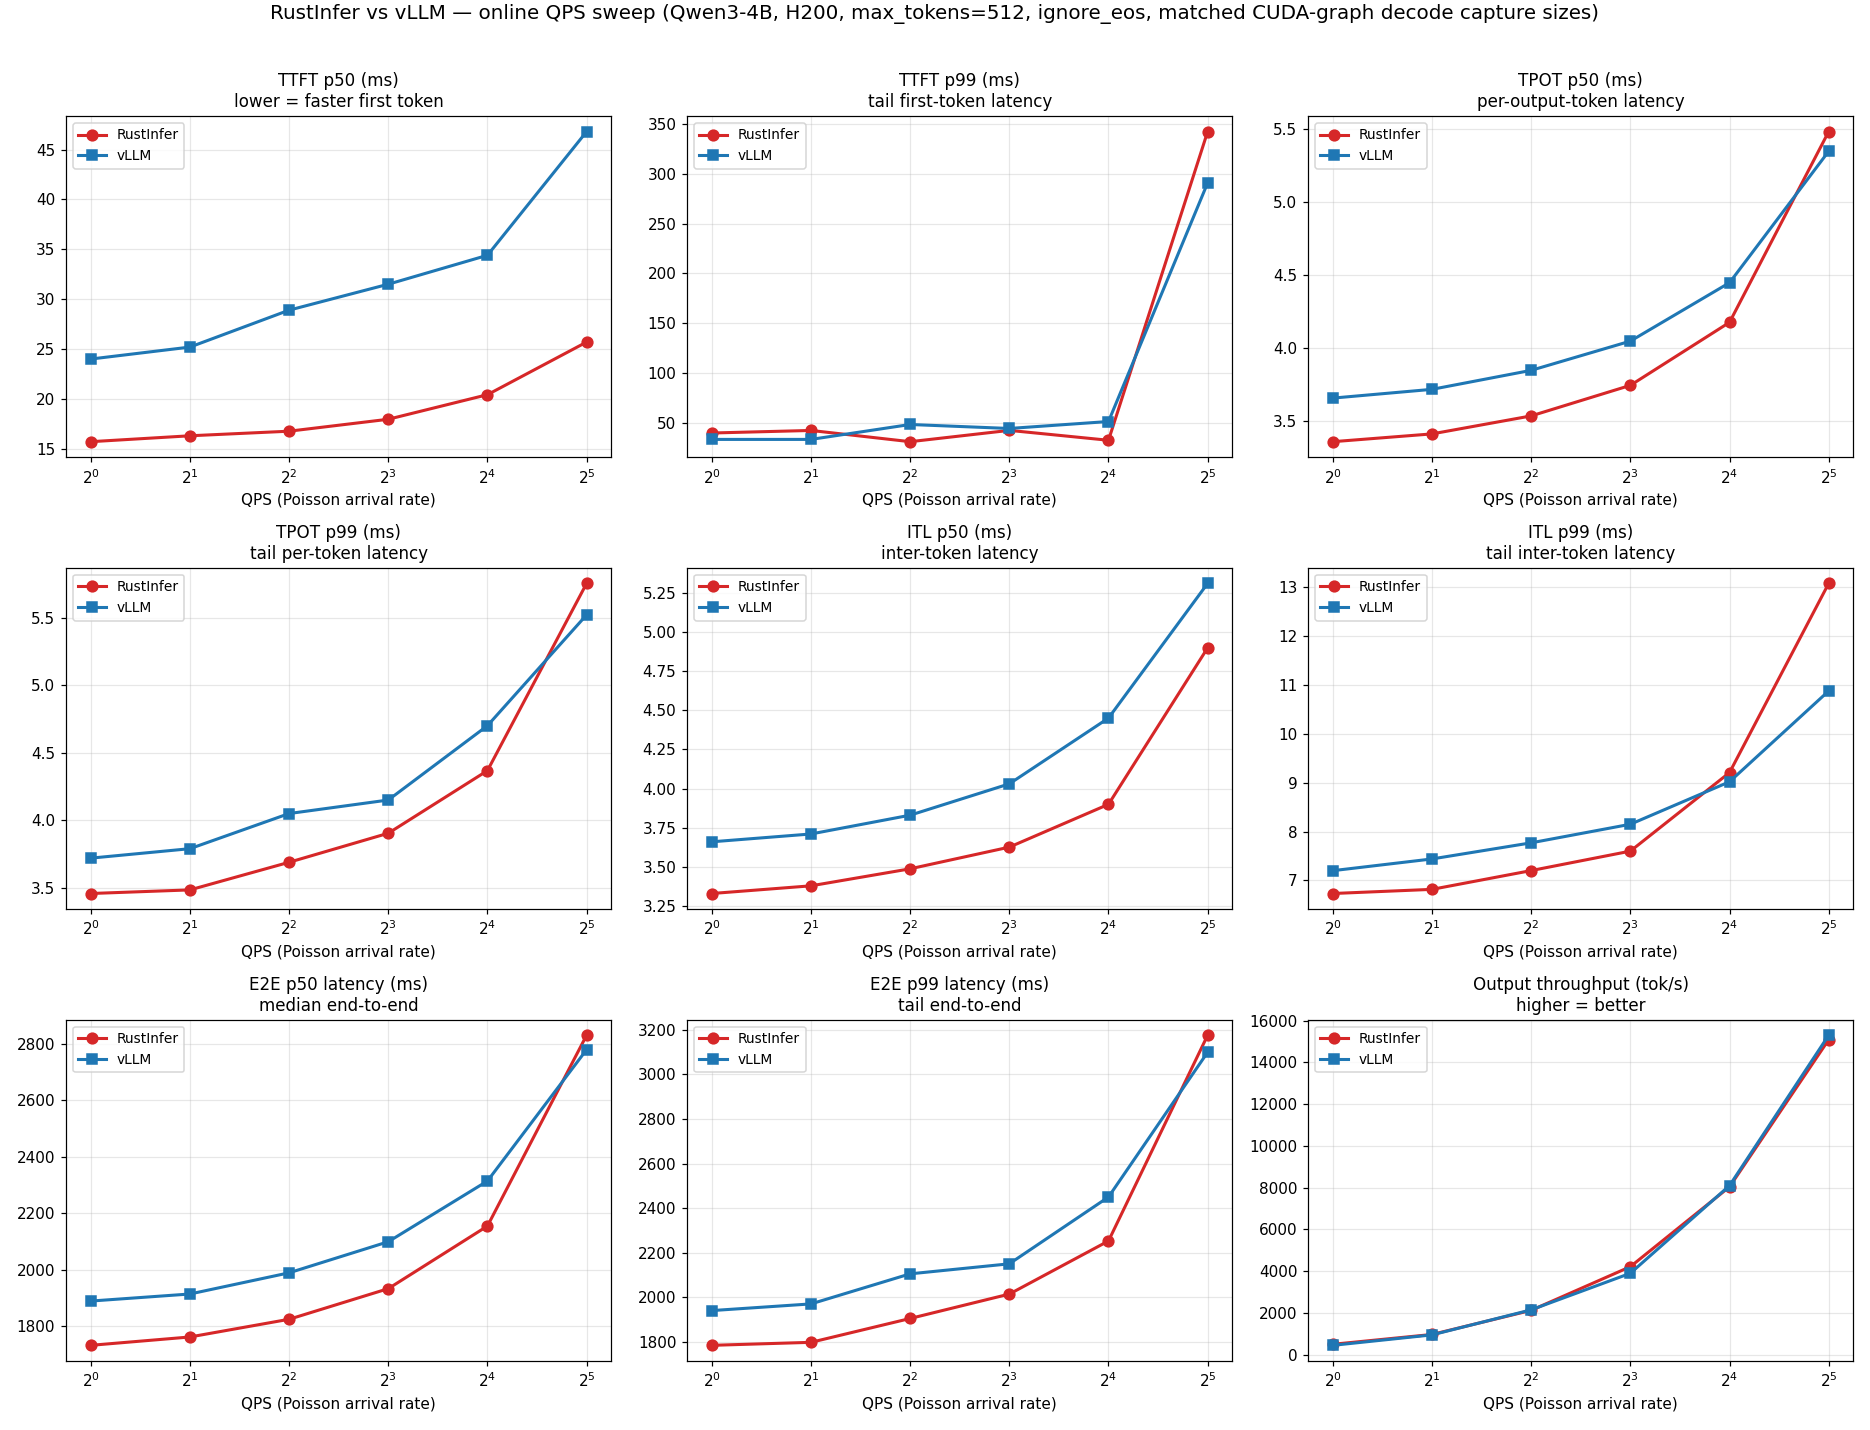
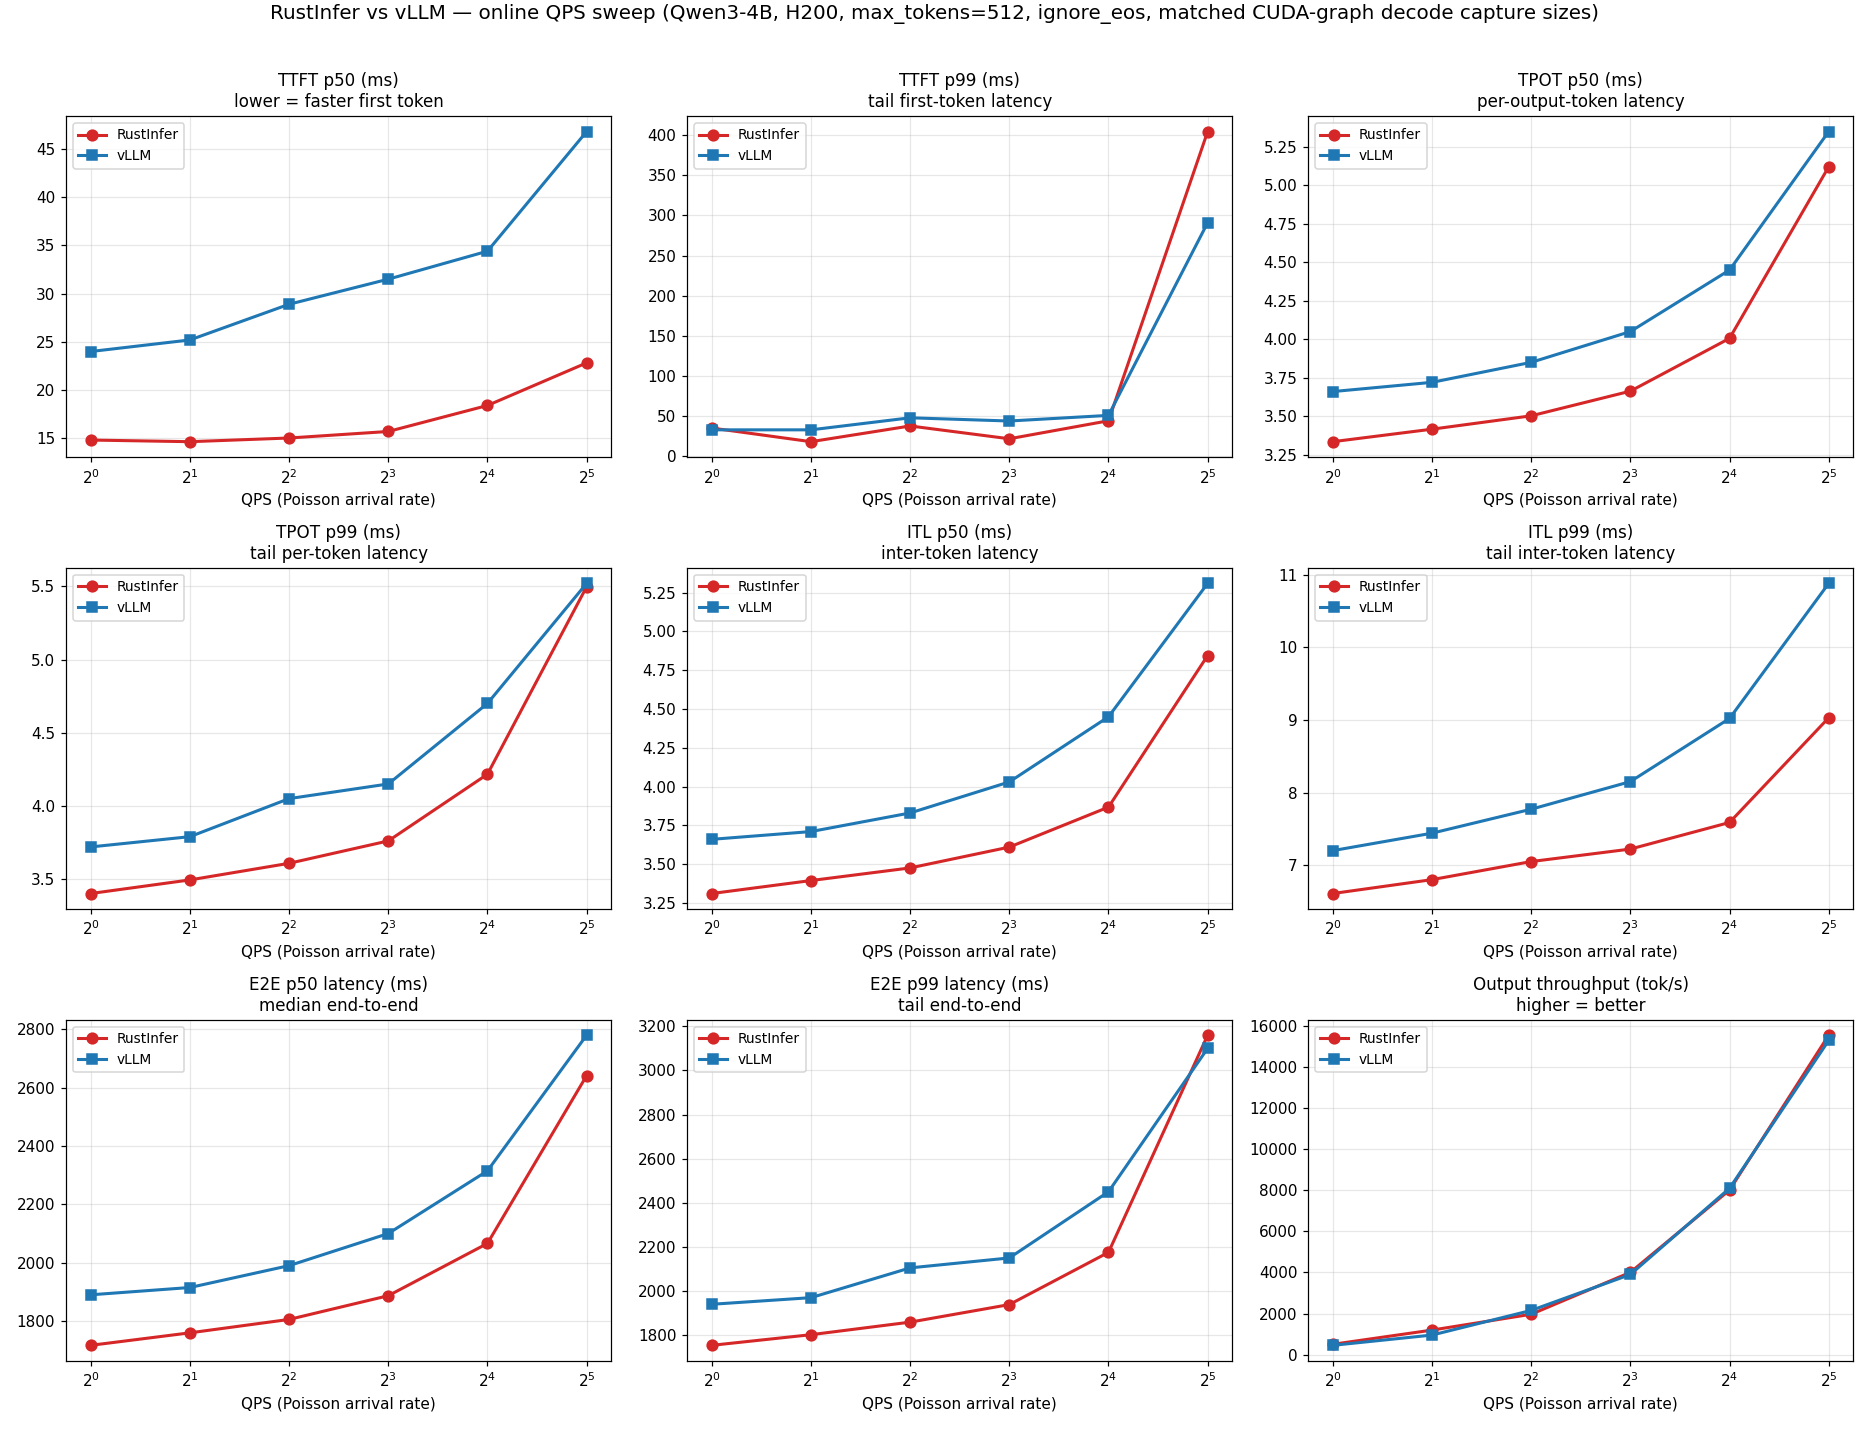
docs: RustInfer beats vLLM on ITL p99 across the full QPS sweep
Refresh the perf plot with the FA3-graph mixed step (now default) and
lead the README with the tail result: RustInfer ITL p99 stays below vLLM
at every arrival rate (6.6->9.0 ms vs 7.2->10.9 ms, qps 1->32), where it
previously crossed above at high load. Same Qwen3-4B / H200 sweep,
failed=0 throughout.

diff --git a/README.md b/README.md
@@ -20,8 +20,16 @@ than vLLM (blue) at equal or higher throughput:
 
 ![RustInfer vs vLLM — online QPS sweep, H200](bench/plots/ri_vs_vllm_qps_final.png)
 
-> Across the sweep, RustInfer holds ~7–9% lower latency at equal or higher
-> throughput. Bench harness and configs live under `bench/`.
+> **RustInfer beats vLLM on the tail, not just the median.** The hardest metric —
+> **tail inter-token latency (ITL p99)** — stays below vLLM at *every* arrival rate:
+> **6.6 → 9.0 ms** for RustInfer vs **7.2 → 10.9 ms** for vLLM (qps 1 → 32), a
+> 10–18% tail reduction that widens under load. RustInfer likewise leads on ITL /
+> TPOT median and end-to-end latency at matched (or higher) throughput.
+>
+> The win comes from **capturing the fused decode+prefill step's FlashAttention-3
+> kernel inside a CUDA graph** — eager-FA3 speed with graph determinism, which
+> collapses the mixed-step latency spike that otherwise fattens the ITL tail.
+> Bench harness and configs live under `bench/`.
 
 ---
 
